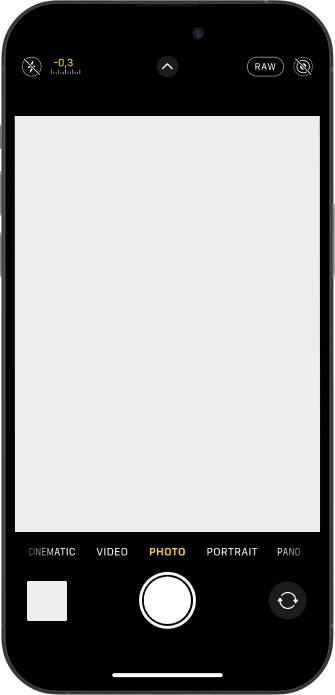
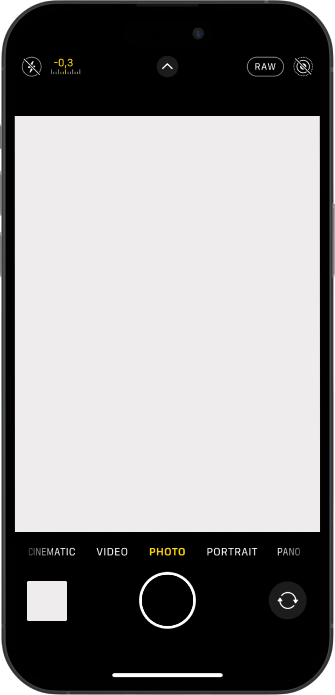
add push button effect to the shutter button

Changed region(s): [[0.4179, 0.8158, 0.597, 0.9065]]

diff --git a/src/modules/IphoneCarousel/ShutterButton.vue b/src/modules/IphoneCarousel/ShutterButton.vue
@@ -12,7 +12,7 @@ const takeAPicture = () => {
 <template>
   <button
     type="button"
-    class="absolute bottom-[90px] left-[133px] h-[44px] w-[44px] rounded-full bg-white xs:bottom-[71px] xs:left-[145px] xs:h-[47px] xs:w-[47px]"
+    class="duration-400 absolute bottom-[90px] left-[133px] h-[44px] w-[44px] rounded-full bg-white transition-transform ease-linear active:scale-[0.80] xs:bottom-[71px] xs:left-[145px] xs:h-[47px] xs:w-[47px]"
     @click="takeAPicture"
   ></button>
 </template>
